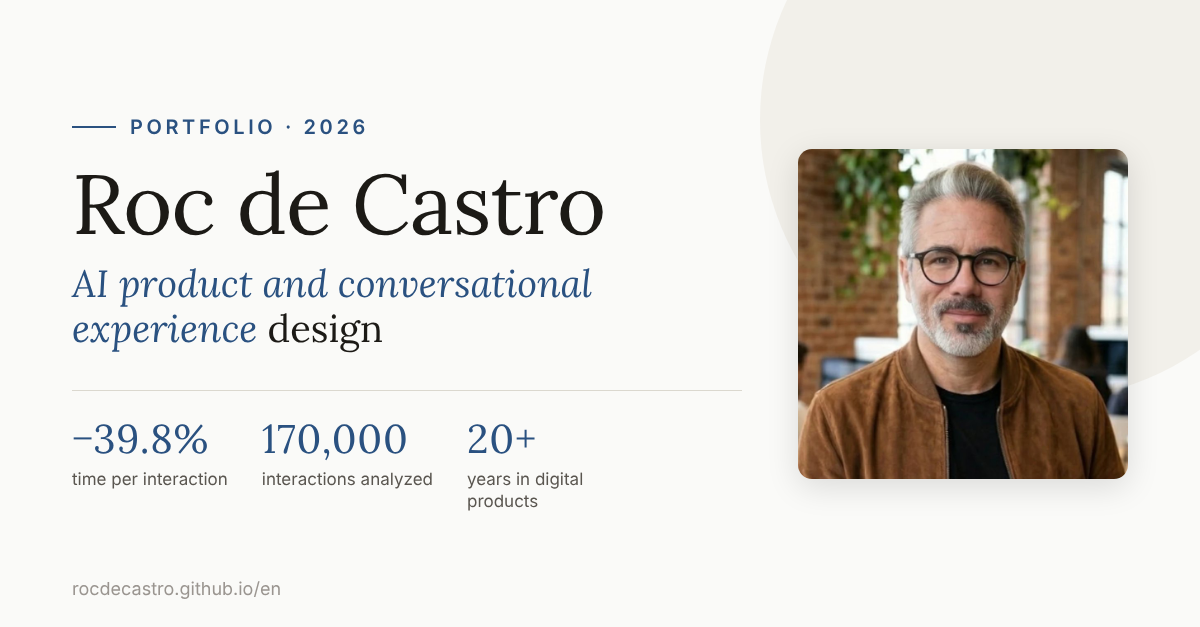
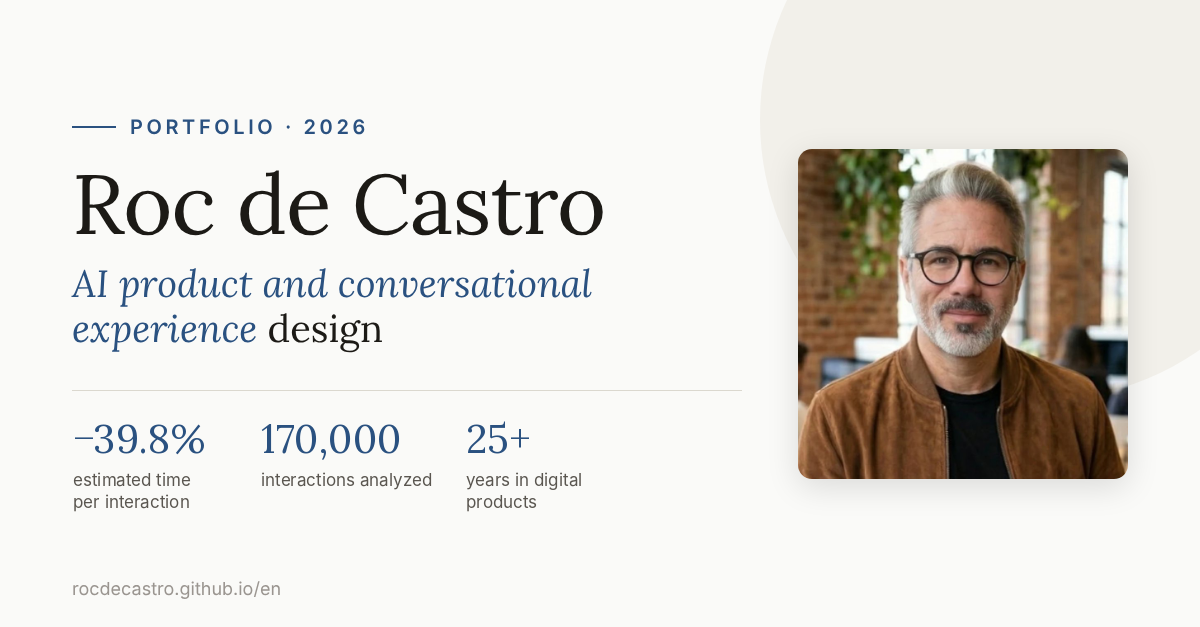
Qualifica métricas estimadas e atualiza anos de experiência
- tempo por interação passa a ser 'tempo estimado' (PT e EN), com a premissa de cálculo no case
- 45% de economia na escuta da URA marcada como estimada
- +20 para +25 anos; imagens de compartilhamento refeitas

Claude-Session: https://claude.ai/code/session_01Jw7SSmqhVFNZv6Lp61UshG

diff --git a/index.html b/index.html
@@ -9,9 +9,9 @@
 <meta property="og:type" content="website">
 <meta property="og:site_name" content="Roc de Castro">
 <meta property="og:title" content="Roc de Castro · Portfólio de cases de IA generativa no atendimento">
-<meta property="og:description" content="8 cases de 2026: −39,8% no tempo por interação, 170 mil interações analisadas e 3× capacidade na produção de roteiros.">
+<meta property="og:description" content="8 cases de 2026: −39,8% no tempo estimado por interação, 170 mil interações analisadas e 3× capacidade na produção de roteiros.">
 <meta property="og:url" content="https://rocdecastro.github.io/">
-<meta property="og:image" content="https://rocdecastro.github.io/og-pt.png">
+<meta property="og:image" content="https://rocdecastro.github.io/og-pt.png?v=2">
 <meta property="og:image:width" content="1200">
 <meta property="og:image:height" content="627">
 <meta property="og:image:alt" content="Roc de Castro">
@@ -408,7 +408,7 @@
       <div class="stats">
         <div class="stat reveal">
           <div class="stat-value">−39,8%</div>
-          <div class="stat-label">no tempo por interação no copiloto do atendente, com reengenharia de prompts</div>
+          <div class="stat-label">no tempo estimado por interação no copiloto do atendente, com reengenharia de prompts</div>
         </div>
         <div class="stat reveal">
           <div class="stat-value">3×</div>
@@ -419,7 +419,7 @@
           <div class="stat-label">interações de atendimento analisadas por curadores humanos e sintéticos</div>
         </div>
         <div class="stat reveal">
-          <div class="stat-value">+20</div>
+          <div class="stat-value">+25</div>
           <div class="stat-label">anos construindo produtos digitais e conversacionais</div>
         </div>
       </div>
@@ -472,14 +472,14 @@
         <article class="case reveal">
           <div class="case-kicker"><span class="idx">03 —</span> Qualidade &amp; capacidade</div>
           <h3>Reengenharia de prompts nos agentes do copiloto do atendente</h3>
-          <span class="badge">11/12 agentes em produção · −39,8% no tempo por interação</span>
+          <span class="badge">11/12 agentes em produção · −39,8% no tempo estimado por interação</span>
           <dl>
             <dt>Antes</dt>
             <dd>Respostas extensas, pouco estruturadas, com baixa completude e dependentes da interpretação do operador.</dd>
             <dt>Entrega</dt>
             <dd>Novo formato de resposta (<strong>Prompt V2</strong>): resumo, tópicos, critérios aplicáveis e próximos passos. Onda V2.2 em curso, reduzindo fallbacks.</dd>
             <dt class="result">Resultado</dt>
-            <dd class="result"><strong>−39,8% no tempo por interação</strong> nos 9 agentes com cálculo completo e <strong>+26 pts de completude</strong> média. 89,4% do ganho vem do operador ler menos — não do modelo responder mais rápido.</dd>
+            <dd class="result"><strong>−39,8% no tempo estimado por interação</strong> (latência mais leitura estimada a ~200 palavras/min) nos 9 agentes com cálculo completo e <strong>+26 pts de completude</strong> média. 89,4% do ganho vem do operador ler menos — não do modelo responder mais rápido.</dd>
           </dl>
           <div class="spacer"></div>
           <div class="tags"><span class="chip">Copiloto</span><span class="chip">Prompts V2</span><span class="chip">Tempo de leitura</span><span class="chip">Completude</span></div>
@@ -520,7 +520,7 @@
         <article class="case reveal">
           <div class="case-kicker"><span class="idx">06 —</span> Curadoria em escala</div>
           <h3>Curadoria data-driven e conferência de áudios na URA</h3>
-          <span class="badge">Dezenas de milhares de frases em 1 rodada · 45% menos escuta</span>
+          <span class="badge">Dezenas de milhares de frases em 1 rodada · economia estimada de 45% na escuta</span>
           <dl>
             <dt>Antes</dt>
             <dd>Curadoria varrendo planilhas linha a linha e conferência humana de todos os áudios.</dd>

diff --git a/en/index.html b/en/index.html
@@ -9,9 +9,9 @@
 <meta property="og:type" content="website">
 <meta property="og:site_name" content="Roc de Castro">
 <meta property="og:title" content="Roc de Castro · Generative AI case portfolio for customer service">
-<meta property="og:description" content="8 cases from 2026: −39.8% time per interaction, 170,000 interactions analyzed and 3× script production capacity.">
+<meta property="og:description" content="8 cases from 2026: −39.8% estimated time per interaction, 170,000 interactions analyzed and 3× script production capacity.">
 <meta property="og:url" content="https://rocdecastro.github.io/en/">
-<meta property="og:image" content="https://rocdecastro.github.io/og-en.png">
+<meta property="og:image" content="https://rocdecastro.github.io/og-en.png?v=2">
 <meta property="og:image:width" content="1200">
 <meta property="og:image:height" content="627">
 <meta property="og:image:alt" content="Roc de Castro">
@@ -408,7 +408,7 @@
       <div class="stats">
         <div class="stat reveal">
           <div class="stat-value">−39.8%</div>
-          <div class="stat-label">time per interaction in the agent-assist copilot, after prompt re-engineering</div>
+          <div class="stat-label">estimated time per interaction in the agent-assist copilot, after prompt re-engineering</div>
         </div>
         <div class="stat reveal">
           <div class="stat-value">3×</div>
@@ -419,7 +419,7 @@
           <div class="stat-label">customer service interactions analyzed by human and synthetic curators</div>
         </div>
         <div class="stat reveal">
-          <div class="stat-value">+20</div>
+          <div class="stat-value">25+</div>
           <div class="stat-label">years building digital and conversational products</div>
         </div>
       </div>
@@ -472,14 +472,14 @@
         <article class="case reveal">
           <div class="case-kicker"><span class="idx">03 —</span> Quality &amp; capacity</div>
           <h3>Prompt re-engineering for the agent-assist copilot</h3>
-          <span class="badge">11/12 agents in production · −39.8% time per interaction</span>
+          <span class="badge">11/12 agents in production · −39.8% estimated time per interaction</span>
           <dl>
             <dt>Before</dt>
             <dd>Long, loosely structured answers with low completeness that depended on how each agent read them.</dd>
             <dt>Delivery</dt>
             <dd>A new answer format (<strong>Prompt V2</strong>): summary, key points, applicable criteria and next steps. Wave V2.2 under way, reducing fallbacks.</dd>
             <dt class="result">Result</dt>
-            <dd class="result"><strong>−39.8% time per interaction</strong> across the 9 agents with complete measurement and <strong>+26 pts of average completeness</strong>. 89.4% of the gain comes from agents reading less, not from the model answering faster.</dd>
+            <dd class="result"><strong>−39.8% estimated time per interaction</strong> (latency plus reading time estimated at ~200 words/min) across the 9 agents with complete measurement and <strong>+26 pts of average completeness</strong>. 89.4% of the gain comes from agents reading less, not from the model answering faster.</dd>
           </dl>
           <div class="spacer"></div>
           <div class="tags"><span class="chip">Copilot</span><span class="chip">Prompts V2</span><span class="chip">Reading time</span><span class="chip">Completeness</span></div>
@@ -520,7 +520,7 @@
         <article class="case reveal">
           <div class="case-kicker"><span class="idx">06 —</span> Curation at scale</div>
           <h3>Data-driven curation and audio review for the IVR</h3>
-          <span class="badge">Tens of thousands of phrases in 1 run · 45% less listening</span>
+          <span class="badge">Tens of thousands of phrases in 1 run · an estimated 45% less listening</span>
           <dl>
             <dt>Before</dt>
             <dd>Curation by scanning spreadsheets line by line, and human review of every audio file.</dd>
